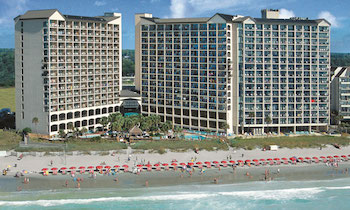
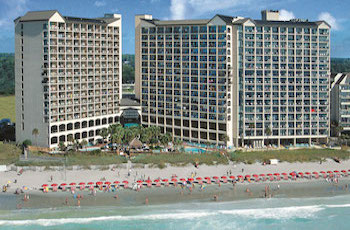
Resized hotel photo to make it equal with the other, eliminated HR tags on info modal

diff --git a/index.html b/index.html
@@ -116,10 +116,8 @@
                             </select>
                         </div>    
                     </div>
-                    <hr>
                     <h2>Reservations</h2>
                     <p>When making your reservation, you must identify yourselves with the Gore Rogers Wedding in order to ensure you receive the special disounted rate for the group. All reservations must be received by May 10, 2016 in order to receive this special discounted rate. Check-in time is 4pm. Check-out time is 11am.</p>
-                    <hr>
                     <h2>Attire</h2>
                         <p>Beach Formal: So dress to impress, but dress for the elements (sun, sand, and water). Anything you'd wear to a nice restaurant on a summer day is appropriate.</p>
                         <p>He should wear: A summer suit with linen shirt (no ties required), linen pants or khakis, and sandals or dress shoes.</p>
